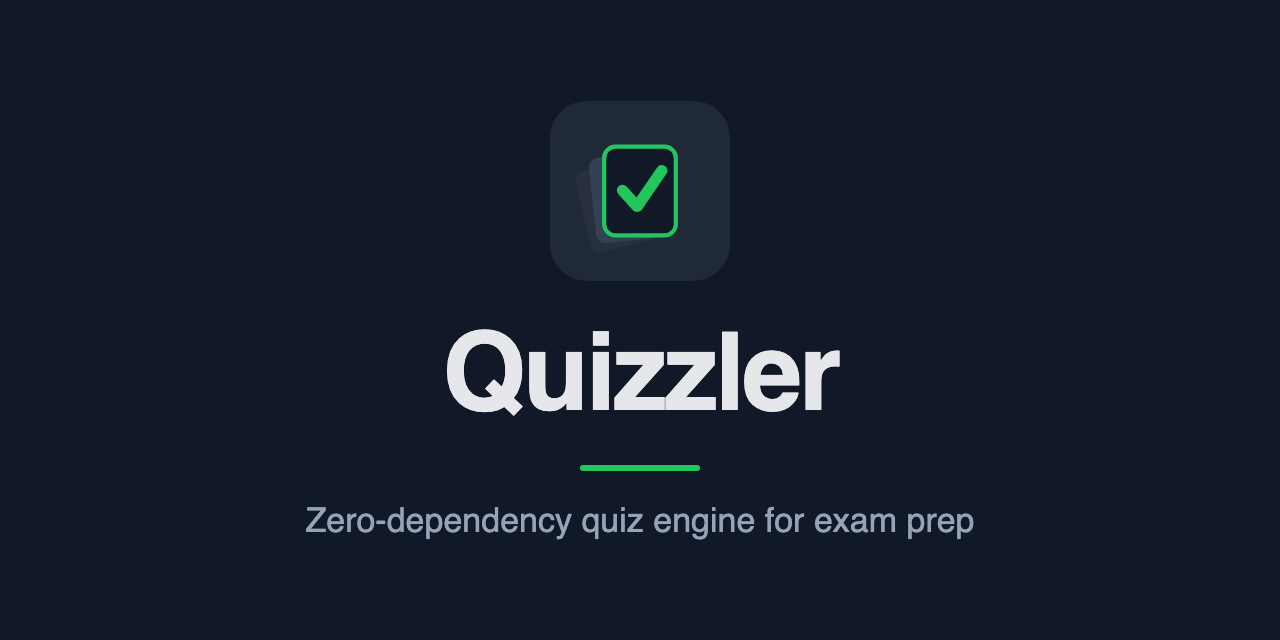
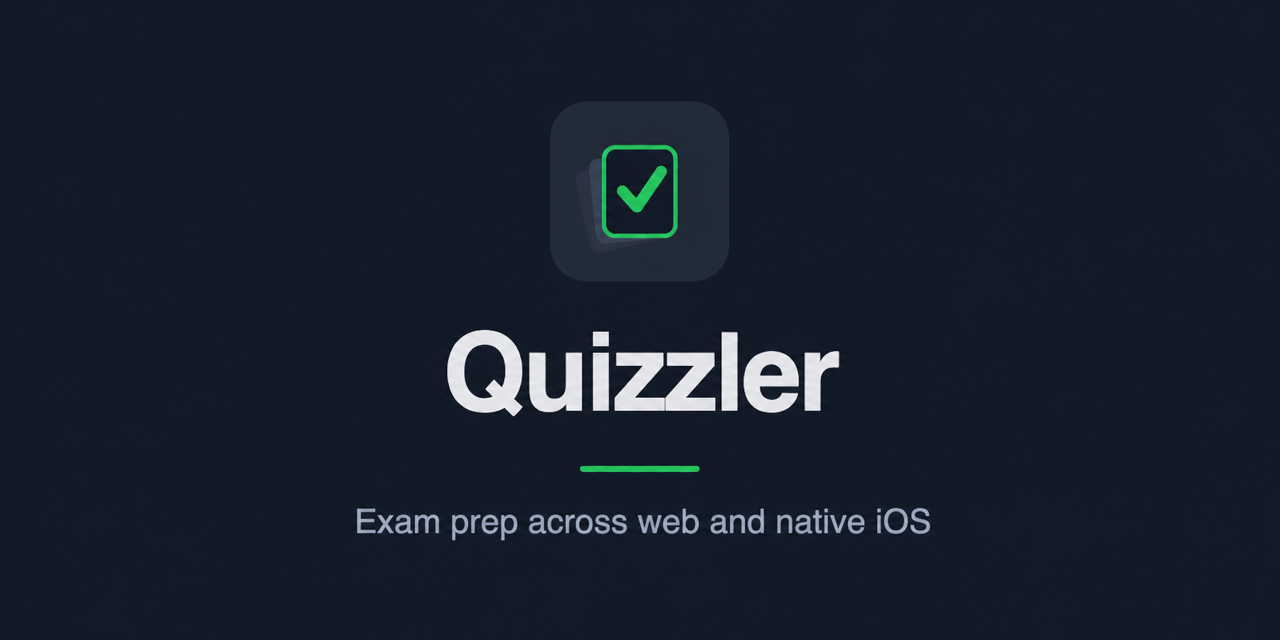
Refresh Quizzler public positioning

diff --git a/README.md b/README.md
@@ -5,7 +5,7 @@
 <h1 align="center">Quizzler</h1>
 
 <p align="center">
-  Zero-dependency quiz engine for exam prep — single HTML file + JSON question packs.
+  Exam-prep quiz platform for web and native iOS — JSON question packs, shared progress, and offline study.
 </p>
 
 <p align="center">
